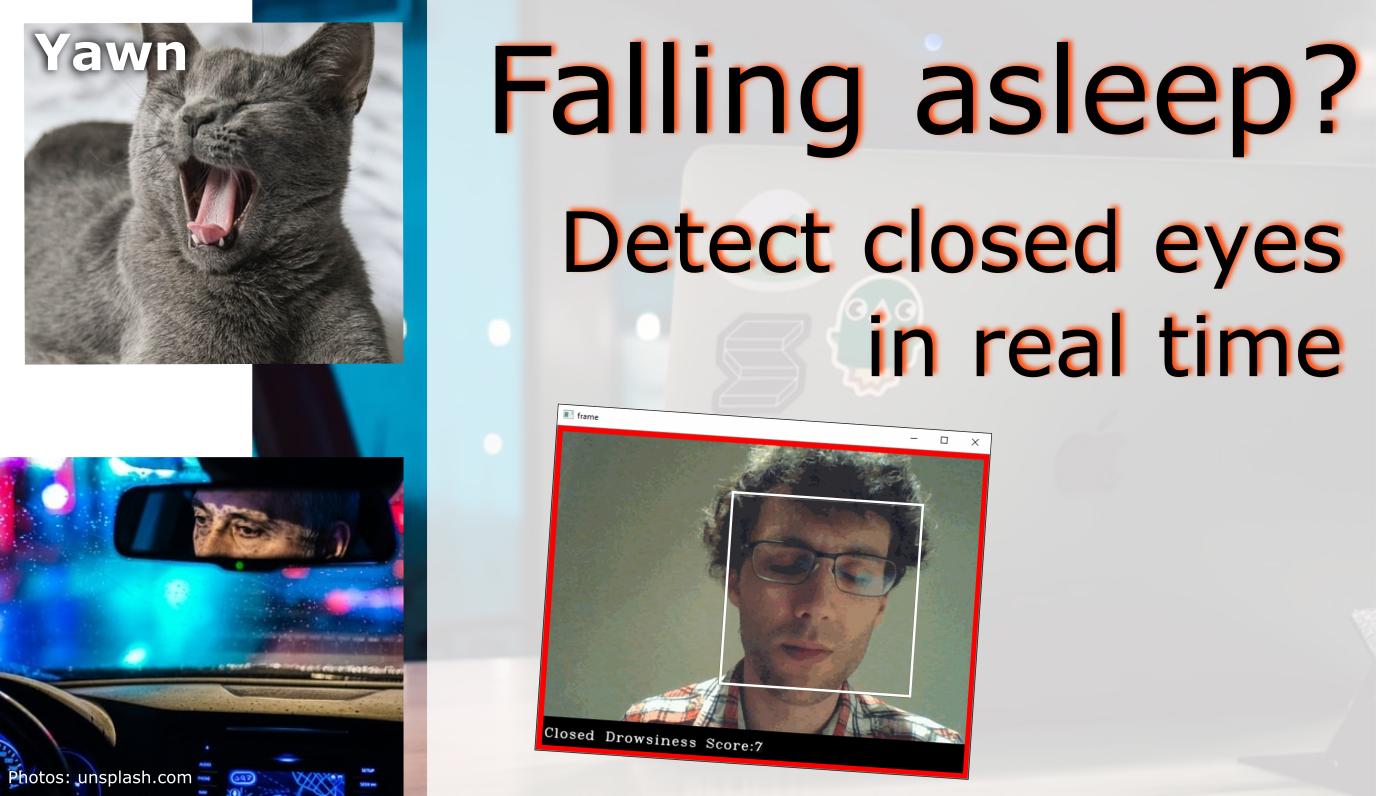
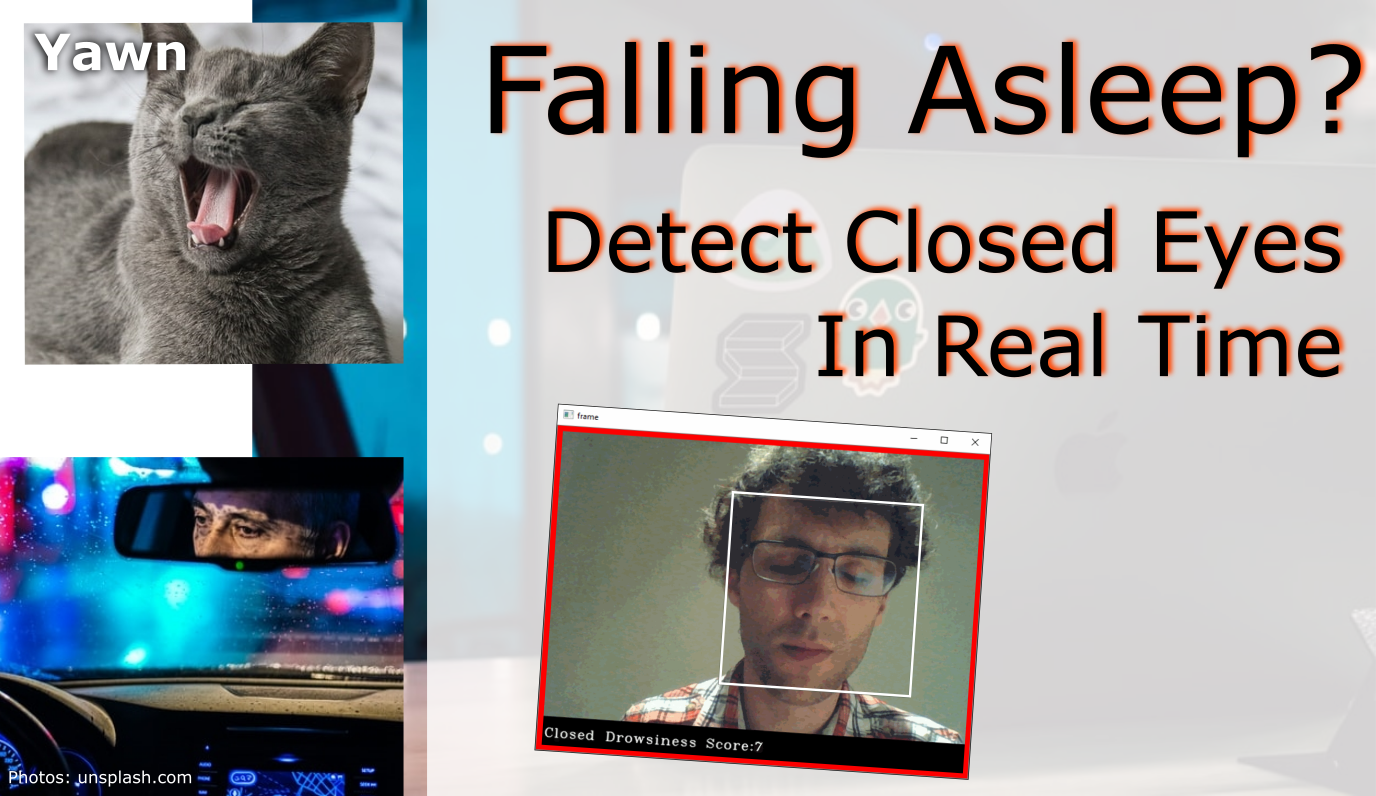
update

Changed region(s): [[0.3438, 0.0302, 1.0, 0.2111], [0.375, 0.2412, 0.875, 0.3618], [0.5938, 0.392, 0.875, 0.4824]]

diff --git a/research/_posts/2020-06-27-Drowsiness-Detector.md b/research/_posts/2020-06-27-Drowsiness-Detector.md
@@ -1,33 +1,30 @@
 ---
-title: Drowsiness Detection in Real Time
+title: Falling Asleep? Detect Closed Eyes in Real Time
 image: /assets/img/research/Drowsy/DrowsinessDetection_Cover.png
 description: >
-  Real-time webcam inference if you are dozing away
+  A drowsiness detector to try out on yourself
 ---
 
-For this ML/DL project, I will show how to implement a simple relatively simple drowsiness detection tool. Drowsiness detection may be helpful in many instances. For example driving a vehicle (<a href="https://en.wikipedia.org/wiki/Driver_drowsiness_detection" target="_blank">Wikipedia: Driver drowsiness detection, </a> <a href="https://www.nytimes.com/2017/03/16/automobiles/wheels/drowsy-driving-technology.html" target="_blank">NYTimes: Sleepy Behind the Wheel? Some Cars Can Tell</a>). But perhaps also more recent applications such as virtual school classes.
-
-Many people have to drive on the highway for long hours. Taxi drivers, bus drivers, truck drivers and people traveling long-distance suffer from lack of sleep. Due to which it becomes very dangerous to drive when feeling sleepy.
+For this ML/DL project, we will implement a relatively simple drowsiness-detection tool. Drowsiness detection can be done by measuring if someone's eyes were closed longer than blinking and may be a life-saver in many instances. For example while driving a vehicle for long hours or at night (<a href="https://en.wikipedia.org/wiki/Driver_drowsiness_detection" target="_blank">Wikipedia: Driver drowsiness detection</a>, <a href="https://www.nytimes.com/2017/03/16/automobiles/wheels/drowsy-driving-technology.html" target="_blank">NYTimes: Sleepy Behind the Wheel? Some Cars Can Tell</a>). Other use cases are more recent applications such as virtual school classes. In either case, we hope people are wide awake during these activities.
 
 I will show how to implement a camera system that watches a person and can tell if they are falling asleep. The most accute signs for this are prolonged periods of closed eyes.
 
 For the model here I will first use a Haar Cascade object identifier to find face and eyes in real-time footage. From an incoming frame, the eyes will be cropped and fed into a Convolutional Neural Netowk (CNN) model for inference.
 
-If closed eyes were predicted for several consecutive frames an alarm will sound. When eyes are predicted opened again, everything goes back to normal.
+If closed eyes were predicted for several consecutive frames, a warning chime will sound. When eyes are predicted open again, everything is supposed to go back to normal.
+
+Give it a go!
 
 
-## Preparation
+## Prerequisites (I prepared this in advance)
 
-- **Dataset creation**. To create the DNN dataset, a script was written that captures eyes from a camera and stores on local disk. They were labeled "Open" or "Closed’. The data was manually cleaned by removing the unwanted images which were not necessary for building the model. The dataset comprises ~7,000 images of people’s eyes under different lighting conditions.
+- **Dataset creation**. To create the DNN dataset, a script was written that captures eyes from a camera and stored them on local disk. They were labeled "Open" or "Closed". The data was manually cleaned by removing bad and redundant images. The dataset comprised ~7,000 images of people’s eyes under different lighting conditions. Sorry, this is too big for GitHub.
 
-- **Training**. A Deep Neural Network (DNN) model was trained. See file "Drowsiness_detection_CNN_pre-train.ipynb" attached the final weights and model architecture file “models/cnnCat2.h5” in the data repository.
+- **Training**. Next, a Deep Neural Network (DNN) model was trained to classify open and closed eyes. See file  <a href="https://github.com/ChristianHallerX/DataScienceProjects/blob/master/Data/drowsiness_data/Drowsiness_detection_CNN_pre-train.ipynb " target="_blank">"Drowsiness_detection_CNN_pre-train.ipynb"</a> and the the final weights and model architecture file "cnnCat2.h5".
 
-- **Object Detection.** with Haar Cascade in <a href="https://opencv.org/" target="_blank">OpenCV</a>. The Haar Cascade <a href="https://docs.opencv.org/3.4/db/d28/tutorial_cascade_classifier.html" target="_blank">(example in OpenCV)</a> produces similar results as the newer YOLO object detection algorithm and uses kernel computation, which is very similar to convolution filters. The "cascade" part is used to narrow down features to the wanted areas and save computation. The kernels used by OpenCV here are set to detect eyes and face. Many pre-tuned kernels are available for different purposes. <a href="https://github.com/opencv/opencv/tree/master/data/haarcascades" target="_blank">Link to OpenCV's kernel repo</a>.
+- **Object Detection.** The Haar Cascade <a href="https://docs.opencv.org/3.4/db/d28/tutorial_cascade_classifier.html" target="_blank">(example in OpenCV)</a> finds landmarks in image frames and cuts them out. The Haar Cascade algorithm produces similar results as the newer YOLO object detection using image convolution filters but instead uses kernel computation. Kernel computation is very similar to YOLO's convolution filters. Different kernels are tuned for different landmarks and can be loaded as needed. The "cascade" part of the algorithm is used to narrow down features to the wanted areas and save computation. The kernels we will use here are set to detect eyes and face. Many pre-tuned kernels are shared by OpenCV for different purposes and objects. <a href="https://github.com/opencv/opencv/tree/master/data/haarcascades" target="_blank">Link to OpenCV's kernel repo</a>.
 
-Data Repository: <a href="https://github.com/ChristianHallerX/DataScienceProjects/tree/master/Data/drowsiness_data" target="_blank">https://github.com/ChristianHallerX/DataScienceProjects/tree/master/Data/drowsiness_data</a>
-
-
-If you want to follow along and try it out yourself , download the Jupyter notebook on <a href="https://github.com/ChristianHallerX/DataScienceProjects/blob/master/Drowsiness_detection_main.ipynb" target="_blank">this link</a>. Make sure you have all the packages installed, the respective <a href="https://github.com/ChristianHallerX/DataScienceProjects/tree/master/Data/drowsiness_data" target="_blank">files</a> and links modified. And of course, you will need a video camera or webcam.
+If you want to follow along and try it out yourself, download the **<a href="https://github.com/ChristianHallerX/DataScienceProjects/blob/master/Drowsiness_detection_main.ipynb" target="_blank">Jupyter notebook</a>**. Check if your environment has all the packages installed. The necessary data files for this project are available from **<a href="https://github.com/ChristianHallerX/DataScienceProjects/tree/master/Data/drowsiness_data" target="_blank">this folder</a>**. Make sure the paths in the notebook point to the correrct local directories. And of course, you will need a video camera or webcam plugged into your computer.
 
 ## Step 1: Imports
 
@@ -200,13 +197,33 @@ cv2.destroyAllWindows()
 					
 </code></pre>
 
-**Result:**
+## Result:
 
-![alt text](https://github.com/ChristianHallerX/ChristianHallerX.github.io/blob/master/assets/img/research/Drowsy/Screen1.png)
+- Normal
 
-![alt text](https://github.com/ChristianHallerX/ChristianHallerX.github.io/blob/master/assets/img/research/Drowsy/Screen2.png)
 
-![alt text](https://github.com/ChristianHallerX/ChristianHallerX.github.io/blob/master/assets/img/research/Drowsy/Screen3.png)
+<img src="https://raw.githubusercontent.com/ChristianHallerX/ChristianHallerX.github.io/master/assets/img/research/Drowsy/Screen1.png" alt="Screen 1" style="width:640px">
+
+
+- Blinking
+
+
+<img src="https://raw.githubusercontent.com/ChristianHallerX/ChristianHallerX.github.io/master/assets/img/research/Drowsy/Screen2.png" alt="Screen 2" style="width:640px">
+
+
+- Eyes closed for too long
+
+
+<img src="https://raw.githubusercontent.com/ChristianHallerX/ChristianHallerX.github.io/master/assets/img/research/Drowsy/Screen3.png" alt="Screen 3" style="width:640px">
+
+
+
+- Videos
+
+<img src="https://raw.githubusercontent.com/ChristianHallerX/ChristianHallerX.github.io/master/assets/video/Drowsy/Drowsiness1.gif" alt="Screen 3" style="width:640px">
+
+<img src="https://raw.githubusercontent.com/ChristianHallerX/ChristianHallerX.github.io/master/assets/video/Drowsy/Drowsiness2.gif" alt="Screen 3" style="width:640px">
+
 
 
 
